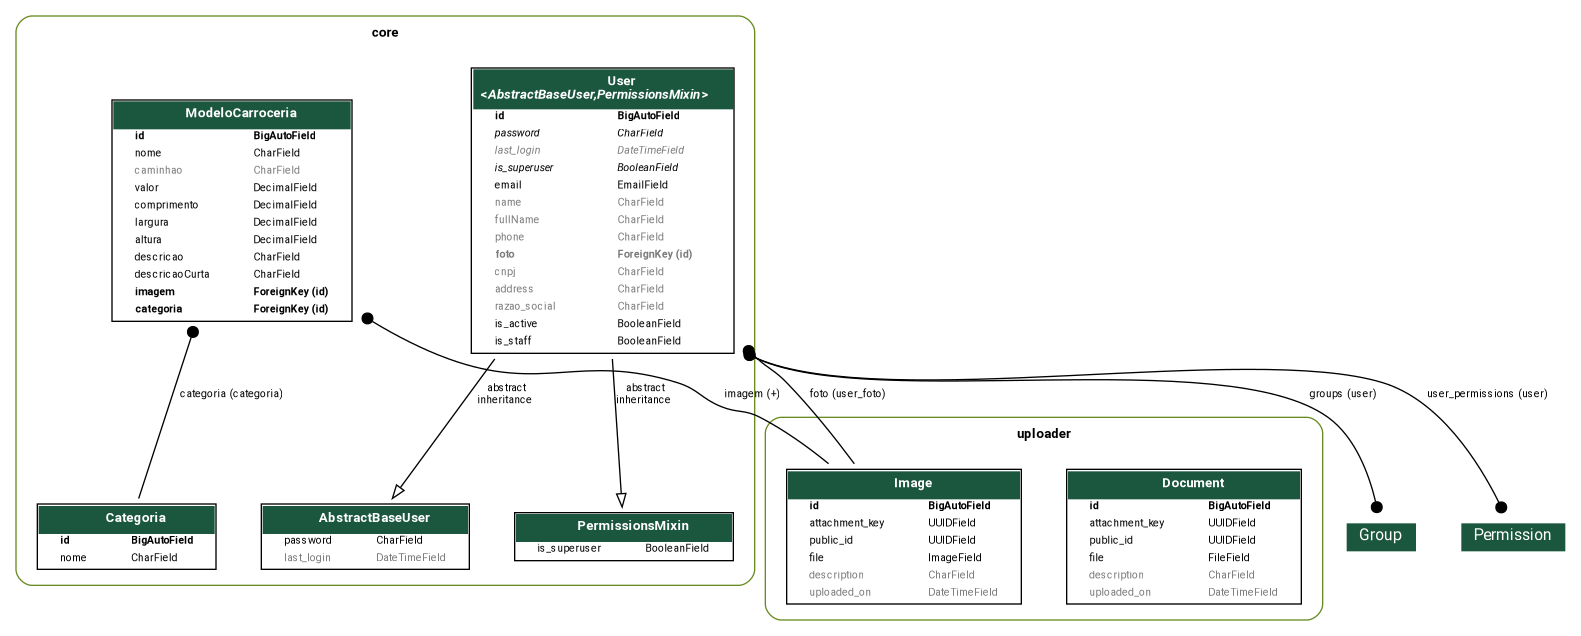
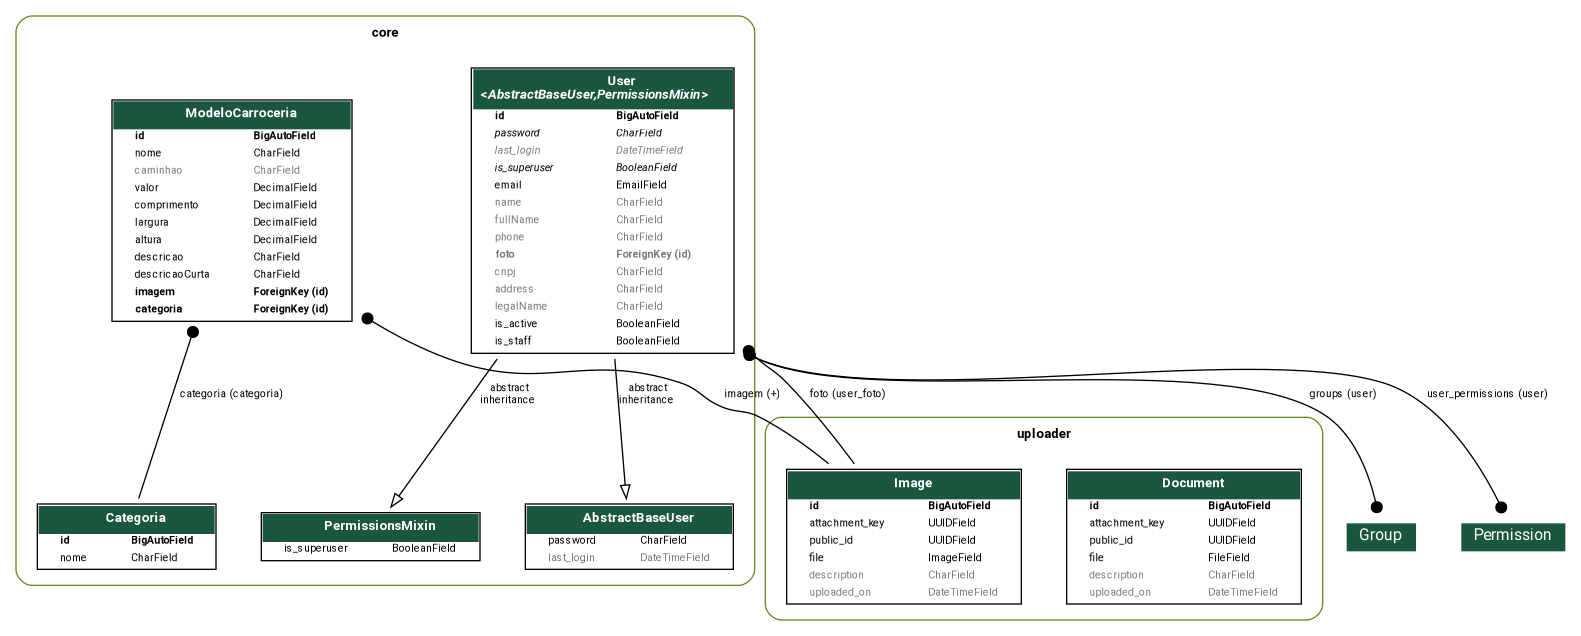
feat: add legalName field at User [ REFS: #23 ]

Changed region(s): [[0.155, 0.6871, 0.4649, 0.8962], [0.2789, 0.1792, 0.4339, 0.6572], [0.3099, 0.478, 0.3409, 0.5079]]

diff --git a/core/serializers/user.py b/core/serializers/user.py
@@ -31,7 +31,7 @@ class UserSerializer(ModelSerializer):
             'name',
             'cnpj',
             'address',
-            'razao_social',
+            'legalName',
             'is_active',
             'is_staff',
             'is_superuser',
@@ -61,7 +61,7 @@ class CustomerCNPJSerializer(ModelSerializer):
 
     class Meta:
         model = User
-        fields = ['id', 'email', 'fullName', 'phone', 'cnpj', 'address', 'razao_social', 'password']
+        fields = ['id', 'email', 'fullName', 'phone', 'cnpj', 'address', 'legalName', 'password']
 
         extra_kwargs = {
             'cnpj': {
@@ -81,10 +81,10 @@ class CustomerCNPJSerializer(ModelSerializer):
 
     def validate_fullName(self, value):
         if not value or not value.strip():
-            raise ValidationError('Nome completo inválido. Preencha os campos corretamente.')
+            raise ValidationError('Nome da empresa inválido. Preencha os campos corretamente.')
 
         if any(char.isdigit() for char in value):
-            raise ValidationError('O nome completo não pode conter números.')
+            raise ValidationError('O nome da empresa não pode conter números.')
         return value
 
     def validate_phone(self, phone):
@@ -110,9 +110,9 @@ class CustomerCNPJSerializer(ModelSerializer):
 
         return value
 
-    def validate_razao_social(self, value):
+    def validate_legalName(self, value):
         if not value or not value.strip():
-            raise ValidationError('Razão social inválida. Preencha os campos corretamente.')
+            raise ValidationError('Nome fantasia inválido. Preencha os campos corretamente.')
         return value
 
 

diff --git a/core/models/user.py b/core/models/user.py
@@ -63,7 +63,7 @@ class User(AbstractBaseUser, PermissionsMixin):
     )
 
     address = models.CharField(max_length=255, blank=True, null=True)
-    razao_social = models.CharField(max_length=255, blank=True, null=True)
+    legalName = models.CharField(max_length=255, blank=True, null=True)
 
     is_active = models.BooleanField(
         default=True, verbose_name=_('Usuário está ativo'), help_text=_('Indica que este usuário está ativo.')

diff --git a/core/migrations/0026_rename_razao_social_user_legalname.py b/core/migrations/0026_rename_razao_social_user_legalname.py
@@ -1,0 +1,18 @@
+# Generated by Django 5.2.13 on 2026-11-11 14:13
+
+from django.db import migrations
+
+
+class Migration(migrations.Migration):
+
+    dependencies = [
+        ('core', '0025_user_address_user_cnpj_user_razao_social'),
+    ]
+
+    operations = [
+        migrations.RenameField(
+            model_name='user',
+            old_name='razao_social',
+            new_name='legalName',
+        ),
+    ]

diff --git a/core/views/user.py b/core/views/user.py
@@ -35,7 +35,7 @@ class UserViewSet(ModelViewSet):
 
     filter_backends = [DjangoFilterBackend, SearchFilter]
     filterset_fields = ['groups']
-    search_fields = ['email', 'fullName', 'name', 'cnpj', 'razao_social']
+    search_fields = ['email', 'fullName', 'name', 'cnpj', 'legalName']
 
 
 class UserRegistrationView(CreateAPIView):
